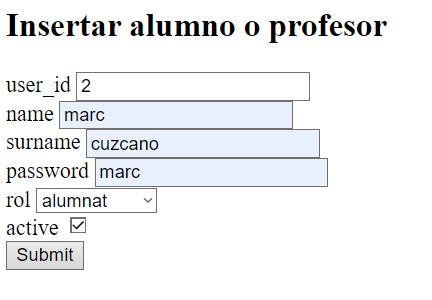
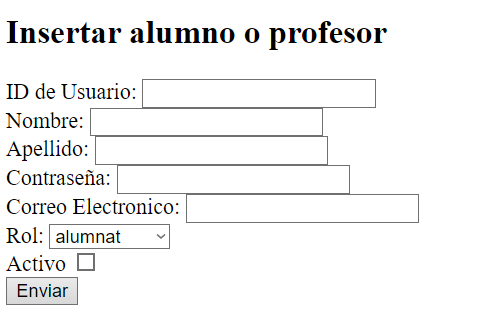
Archivos Proyecto

Changed region(s): [[0.0, 0.21, 0.8727, 0.93], [0.0, 0.03, 0.9028, 0.15]]

diff --git a/form.html b/form.html
@@ -6,37 +6,41 @@
     <title>Formulario PHP</title>
   </head>
   <body>
-    <h2> Insertar alumno o profesor</h2>
+    <h3> Inserta alumno o profesor</h3>
 
     <form method="POST" action="db.php">
       <div>
-        <label>user_id</label>
+        <label>ID de usuario:</label>
         <input type="text" name="user_id" />
       </div>
       <div>
-        <label>name</label>
+        <label>Nombre:</label>
         <input type="text" name="name" />
       </div>
       <div>
-        <label>surname</label>
+        <label>Apellido:</label>
         <input type="text" name="surname" />
       </div>
       <div>
-        <label>password</label>
+        <label>Contraseña:</label>
         <input type="text" name="password" />
       </div>
       <div>
-        <label>rol</label>
+        <label>Correo Electronico:</label>
+        <input type="text" name="email" />
+      </div>
+      <div>
+        <label>Rol</label>
         <select name="rol">
           <option name="alumnat" value="alumnat">alumnat</option>
           <option name="professorat" value="professorat">professorat</option>
         </select>
       </div>
       <div>
-      <label>active</label>
+      <label>Activo:</label>
         <input type="checkbox" name="active" value="1" />
       </div>
-      <input type="submit" value="Submit" />
+      <input type="submit" value="Enviar" />
     </form>
   </body>
 </html>

diff --git a/db.php b/db.php
@@ -1,46 +1,51 @@
 
 <?php
 
-    // Constantes para BBDD
+// Constantes para la configuración de la base de datos
+define("DB_HOST", "localhost"); // Host de la base de datos
+define("DB_NAME", "users"); // Nombre de la base de datos
+define("DB_USER", "root"); // Usuario de la base de datos
+define("DB_PSW", ""); // Contraseña de la base de datos
+define("DB_PORT", 3306); // Puerto de la base de dato (3306)
 
-    define("DB_HOST","localhost");
-    define("DB_NAME","users");
-    define("DB_USER","root");
-    define("DB_PSW", "");
-    // Definir el puerto diferente a 3306
-    define("DB_PORT",3306);
+// Conexión a la base de datos utilizando las constantes definidas anteriormente
+$conexion = mysqli_conexion(DB_HOST, DB_USER, DB_PSW, DB_NAME, DB_PORT);
 
-    // Conexion a la BBDD
-    $connect = mysqli_connect(DB_HOST,DB_USER,DB_PSW,DB_NAME,DB_PORT);
+// Comprobar si la conexión a la base de datos fue exitosa
+if (!$conexion) {
+    echo "Error de conexión: " . mysqli_conexion_error();
+} else {
+    // Recuperar los datos del formulario a través del método POST
+    echo "Conexion establecida correctamente";
+    $user_id = $_POST["user_id"];
+    $name = $_POST["name"];
+    $surname = $_POST["surname"];
+    $password = $_POST["password"];
+    $email = $_POST["email"];
+    $rol = $_POST["rol"];
 
-    // Comprobacion de la conexion
-
-    if(!$connect){
-        echo "Error de connexió: " . mysqli_connect_error();
+    // Comprobar si la casilla "active" fue marcada en el formulario
+    if (isset($_POST["active"])) {
+        $active = 1;
+    } else {
+        $active = 0;
     }
-    else{
 
-        $user_id = $_POST["user_id"];
-        $name = $_POST["name"];
-        $surname = $_POST["surname"];
-        $password = $_POST["password"];
-        $rol = $_POST["rol"];
-        if (isset ($_POST["active"])){
-            $active = 1;
-        }
-        else {
-            $active = 0;
-        }
-        $query = "INSERT INTO user (user_id,name,surname,password,rol,active)
-        VALUES('$user_id','$name','$surname','$password','$rol','$active')";
+    // Crear la consulta SQL para insertar los datos en la tabla 'user'
+    $query = "INSERT INTO user (user_id, name, surname, password, email, rol, active)
+              VALUES ('$user_id', '$name', '$surname', '$password', '$email', '$rol', '$active')";
 
-        if (mysqli_query($connect,$query))
-        {
+    // Ejecutar la consulta SQL y comprobar si la inserción fue exitosa
+    if (mysqli_query($conexion, $query)) {
+        // Redirigir a la página 'mostrar.php' si la inserción fue exitosa
         header('Location: mostrar.php');
-}
-else{
-    echo "Error al insertar datos " . mysqli_error($connect);
+    } else {
+        // Mostrar un mensaje de error en caso de fallo en la inserción
+        echo "Error al insertar datos " . mysqli_error($conexion);
     }
 }
-    mysqli_close($connect);
+
+// Cerrar la conexión a la base de datos
+mysqli_close($conexion);
+
 ?>

diff --git a/mostrar.php b/mostrar.php
@@ -6,7 +6,7 @@
     <title>Document</title>
 </head>
 <body>
-    <h1>Resultado</h1>
+    <h2>Resultado</h2>
     <h4>Se ha guardado el usuario correctamente</h4>
 </body>
 </html>

diff --git a/README.md b/README.md
@@ -17,3 +17,19 @@
 
 ![alt](img/Resultado.png)
 
+## Requisitos
+
+- Servidor web con PHP y MySQL.
+- Acceso a phpMyAdmin para la gestión de la base de datos.
+
+## Objetivos de la actividad
+
+* Crear tablas a través de phpmyadmin.
+* Insertar registros a través de php en una BBDD MySql.
+* Resolución de problemas.
+* Aprender markdown.
+* Aprender git y github.
+* Adquirir conocimiento de las RA’s indicadas.
+* Utilizar formularios en php.
+* *Utilizar lo GET y TABLA
+
